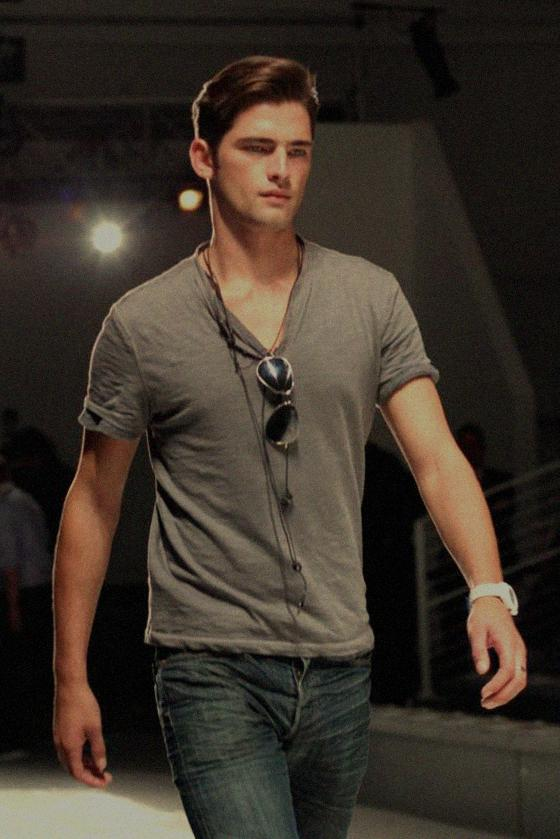
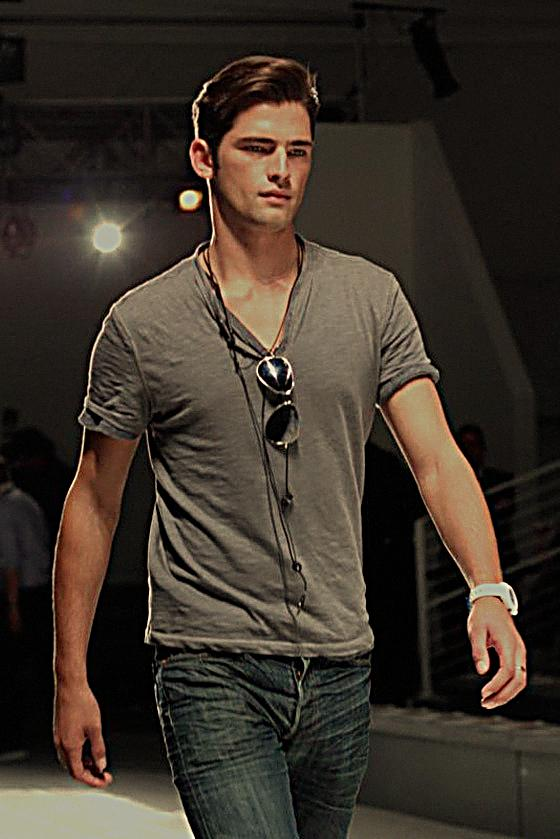
finished vintage edit func

diff --git a/EditImage/editImg.py b/EditImage/editImg.py
@@ -2,7 +2,6 @@ from PIL import Image, ImageEnhance, ImageFilter, ImageOps
 import numpy as np
 import os
 import cv2
-import random
 
 # Input Images Dir
 pathIn = os.path.join(os.getcwd(), "inputImgs")
@@ -10,6 +9,19 @@ pathIn = os.path.join(os.getcwd(), "inputImgs")
 # Edited Images Dir
 pathOut = os.path.join(os.getcwd(), "editedImgs")
 
+'''
+///////////
+editBatch//
+///////////
+
+The function `editBatch` processes image files in a specified input directory and applies a vintage
+edit before saving the edited images to an output directory.
+
+:param pathIn: The `pathIn` parameter in the `editBatch` function is the directory path where the
+input images are located. These images will be processed by the `vintageEdit` function
+:param pathOut: The `pathOut` parameter in the `editBatch` function is the directory path where the
+edited images will be saved after processing
+'''
 def editBatch(pathIn,pathOut):
     checkDirectory(pathOut)
     
@@ -20,46 +32,95 @@ def editBatch(pathIn,pathOut):
             vintageEdit(input_path, output_path)
             # drawingEdit(pathIn,pathOut)
 
+"""
+///////////////
+Vintage Edit //
+///////////////
+
+Purpose:
+Applies a "vintage" effect to an image by manipulating its color channels, 
+adding noise, adjusting brightness and contrast, and overlaying a vignette filter.
+The processed image is then saved to a specified output path.
+
+Explanation:
+- Input Image Conversion: The function begins by opening the input image file and 
+converting it to the RGB color mode.
+
+- Color Adjustment: The red, green, and blue channels are individually 
+adjusted to enhance red tones, slightly increase green, and reduce blue for a warmer effect.
+
+- Blurring: A Gaussian blur is applied to soften the image slightly.
+
+- Noise Addition: Random noise is introduced to simulate an aged or
+"vintage" texture, with pixel values clipped to valid ranges.
+
+- Brightness & Contrast Enhancement: The brightness is increased by 10%, 
+and the contrast by 20% for more vivid colors.
+
+- Vignette Effect: A Gaussian kernel is used to generate a vignette mask, 
+which darkens the image edges for a classic look.
+
+- Save Processed Image: The final processed image is saved to the specified
+output path, and the file path is printed for confirmation.
+"""
 def vintageEdit(pathIn,pathOut):
-    # Open the image
+    #--------------------------------------#
     img = Image.open(pathIn).convert("RGB")
-    
-    # Step 1: Apply warm color grading
+    #--------------------------------------#
     r, g, b = img.split()
-    r = r.point(lambda i: i * 1.2)  # Increase red tones
-    g = g.point(lambda i: i * 1.1)  # Slightly increase green
-    b = b.point(lambda i: i * 0.9)  # Reduce blue for a warmer feel
+    r = adjustChannel(r, 1.2)
+    g = adjustChannel(g, 1.1)
+    b = adjustChannel(b, 0.9)
     img = Image.merge("RGB", (r, g, b))
-    
-    # Step 2: Add a slight blur
-    img = img.filter(ImageFilter.GaussianBlur(0.4))
-    
-    # Step 3: Add film grain using NumPy
+    #--------------------------------------#
+    img = img.filter(ImageFilter.GaussianBlur(0.3))
+    #--------------------------------------#
     np_img = np.array(img)
-    noise = np.random.normal(0, 10, np_img.shape)  # Gaussian noise
+    noise = np.random.normal(0, 3, np_img.shape) 
     np_img = np.clip(np_img + noise, 0, 255).astype(np.uint8)
     img = Image.fromarray(np_img)
-    
-    # Step 4: Adjust brightness and contrast
+    #--------------------------------------#
     enhancer = ImageEnhance.Brightness(img)
-    img = enhancer.enhance(1.1)  # Slightly brighten
+    img = enhancer.enhance(1.05) 
     enhancer = ImageEnhance.Contrast(img)
-    img = enhancer.enhance(1.2)  # Increase contrast
-    
-    # Step 5: Add vignette using OpenCV
+    img = enhancer.enhance(1.2)
+    #--------------------------------------#
     rows, cols = np_img.shape[:2]
-    kernel_x = cv2.getGaussianKernel(cols, cols // 3)
-    kernel_y = cv2.getGaussianKernel(rows, rows // 3)
+    kernel_x = cv2.getGaussianKernel(cols, cols // 5)
+    kernel_y = cv2.getGaussianKernel(rows, rows // 5)
     kernel = kernel_y * kernel_x.T
-    mask = 255 * kernel / np.linalg.norm(kernel)
+    mask = 180 * kernel / np.linalg.norm(kernel)
     vignette = np.dstack((mask, mask, mask))
-    np_img = cv2.addWeighted(np_img, 0.7, vignette.astype(np.uint8), 0.3, 0)
+    np_img = cv2.addWeighted(np_img, 0.7, vignette.astype(np.uint8), 0.35, 0)
     img = Image.fromarray(np_img)
-    
-    # Save the edited image
+    img = img.filter(ImageFilter.UnsharpMask(radius=3, percent=150, threshold=3))
+    #----------------------------------------#
     img.save(pathOut)
     print(f"Edited image saved to {pathOut}")
    
+"""
+The function `adjustChannel` takes an image channel and a factor, multiplies each pixel value by
+the factor, and returns the adjusted channel.
+
+:param channel: The `channel` parameter in the `adjust_channel` function likely refers to an image
+channel, such as the red, green, or blue channel of an image. In image processing, an image is
+typically composed of multiple channels, each representing different color information
+
+:param factor: The `factor` parameter in the `adjust_channel` function represents the value by which
+each pixel in the channel will be multiplied to adjust its intensity or brightness. This factor can
+be used to make the channel brighter (if factor > 1), darker (if 0 < factor < 1),
+
+:return: The function `adjustChannel` is returning an adjusted channel with the pixel values
+multiplied by the factor provided as an argument.
+"""
+def adjustChannel(channel, factor):
+    adjusted_pixels = []
+    for pixel in channel.getdata():
+        prod = int(pixel * factor)
+        adjusted_pixels.append(prod)
+    adjusted_channel = channel.copy()
+    adjusted_channel.putdata(adjusted_pixels)
+    return adjusted_channel
 
 '''
 ///////////////
@@ -67,8 +128,7 @@ Drawing Edit //
 ///////////////
 
 Purpose:
-Explanation: 
-Drawing Edit Purpose: This function transforms input images into hand-drawn, pencil-sketch-like pictures, using a series of image-processing steps. It creates a unique, artistic effect that highlights key features and emphasizes lines, mimicking the look of a hand-drawn sketch.
+- This function transforms input images into hand-drawn, pencil-sketch-like pictures, using a series of image-processing steps. It creates a unique, artistic effect that highlights key features and emphasizes lines, mimicking the look of a hand-drawn sketch.
 
 Explanation:
 - First, we convert the image to grayscale.
@@ -132,5 +192,4 @@ def checkDirectory(pathOut):
     if not os.path.exists(pathOut):
         os.makedirs(pathOut)
 
-# vintageEdit(pathIn,pathOut)
 editBatch(pathIn,pathOut)
